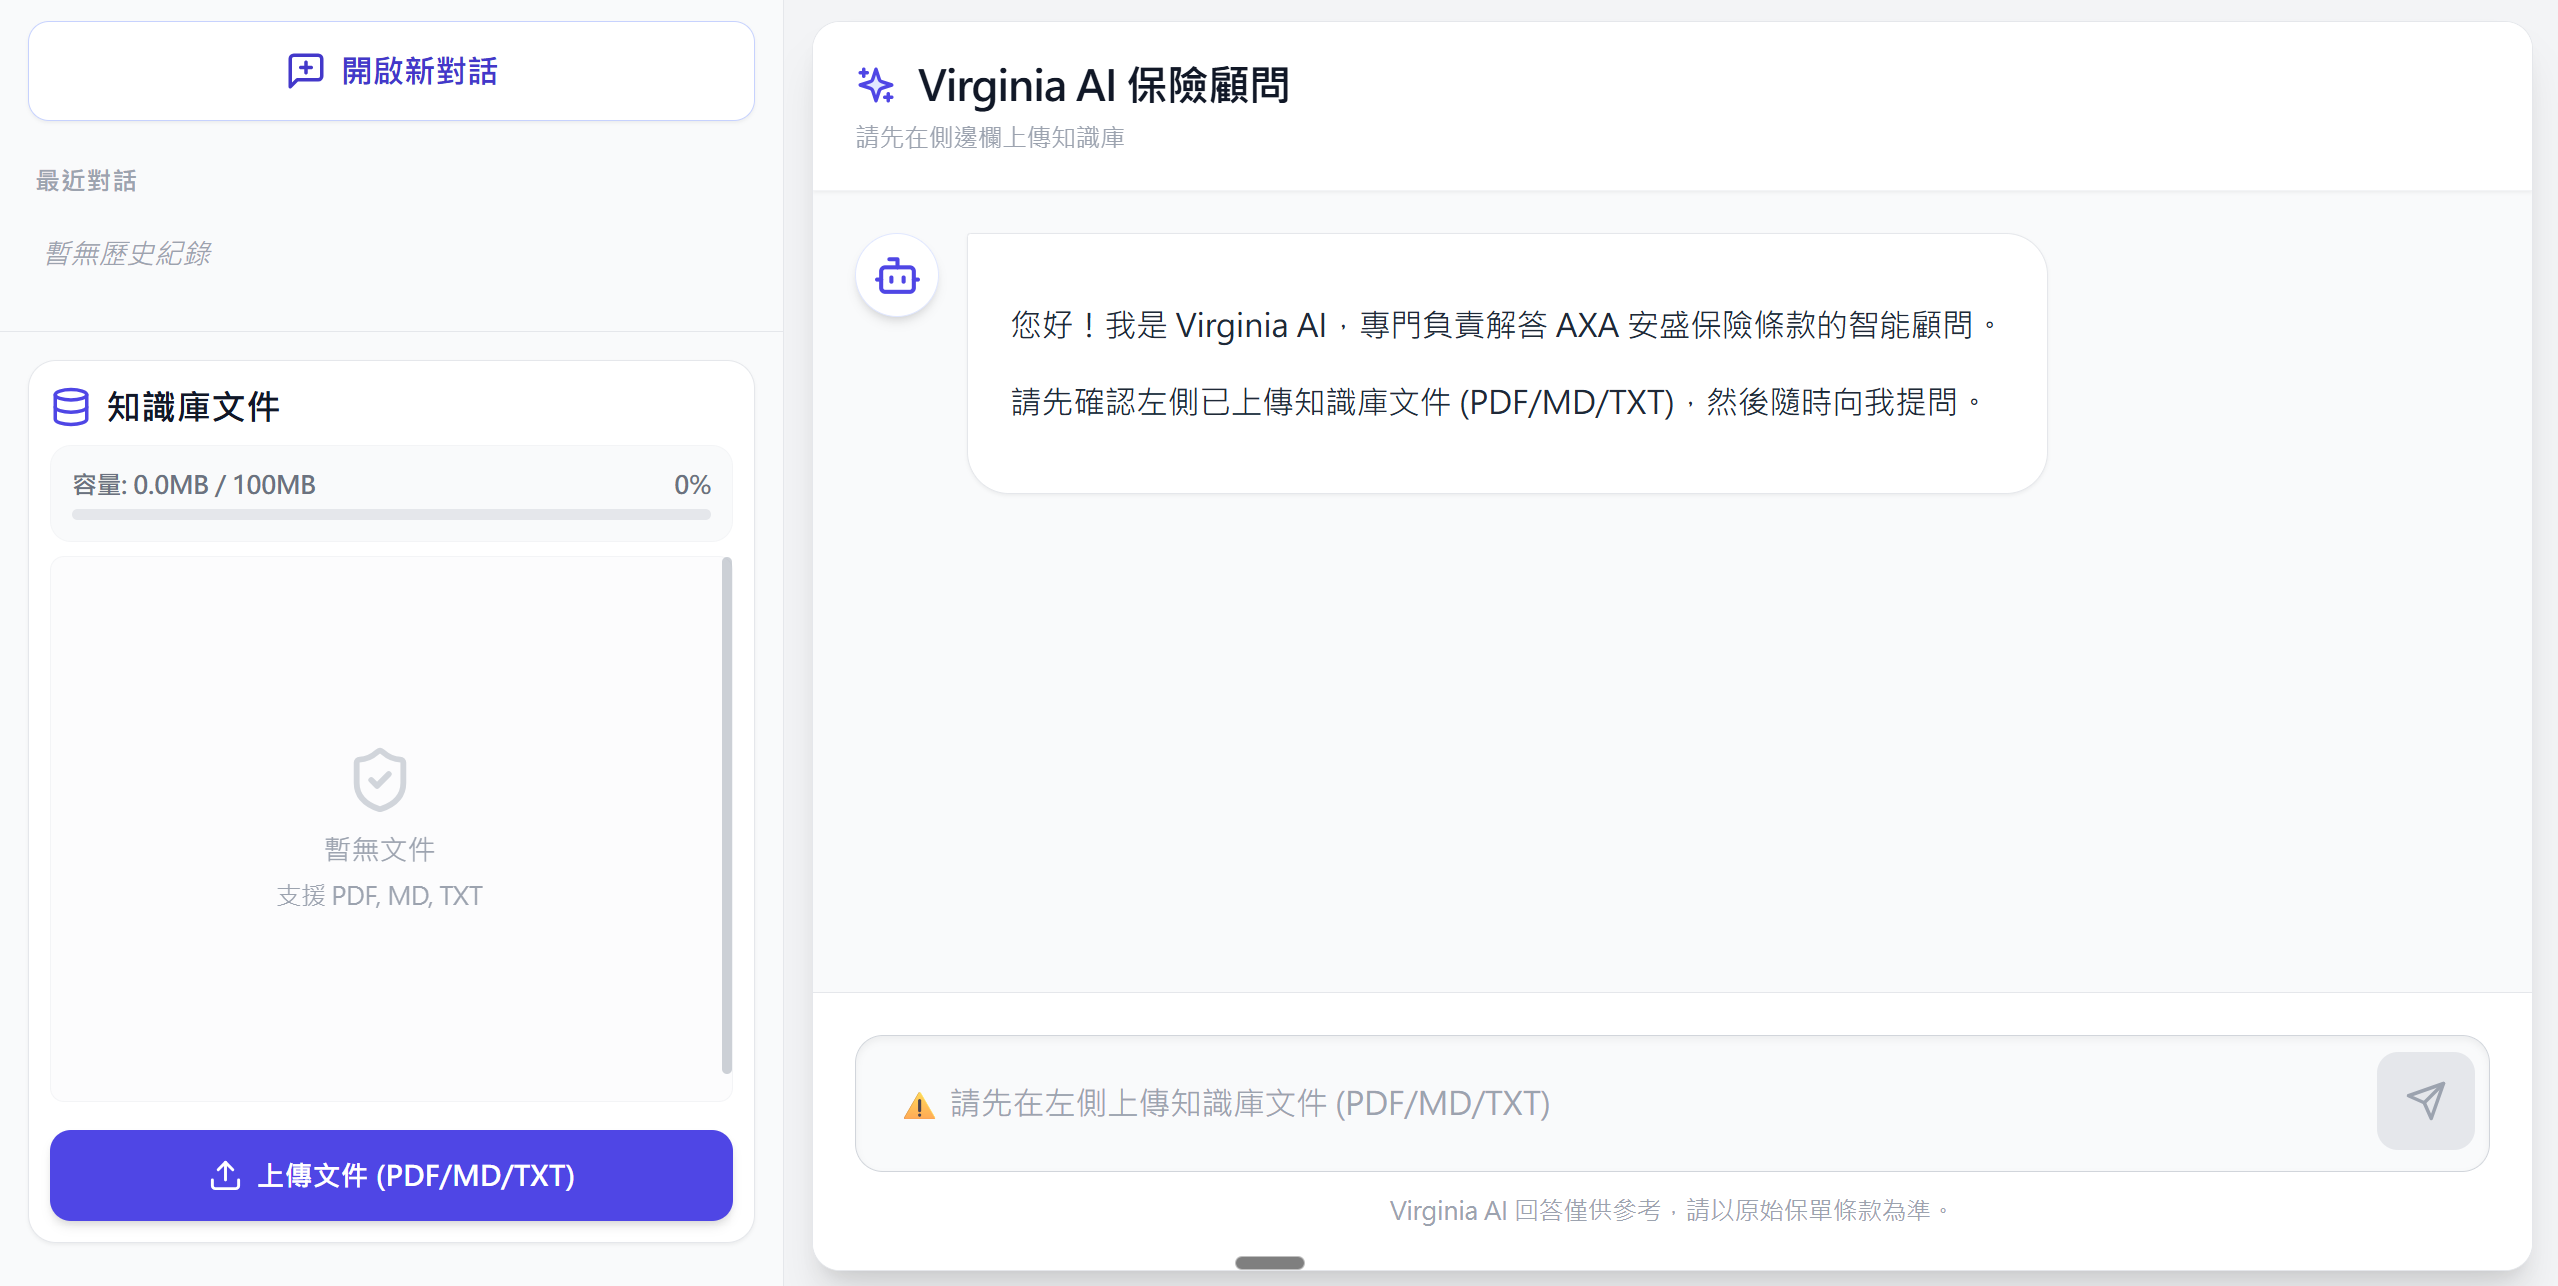
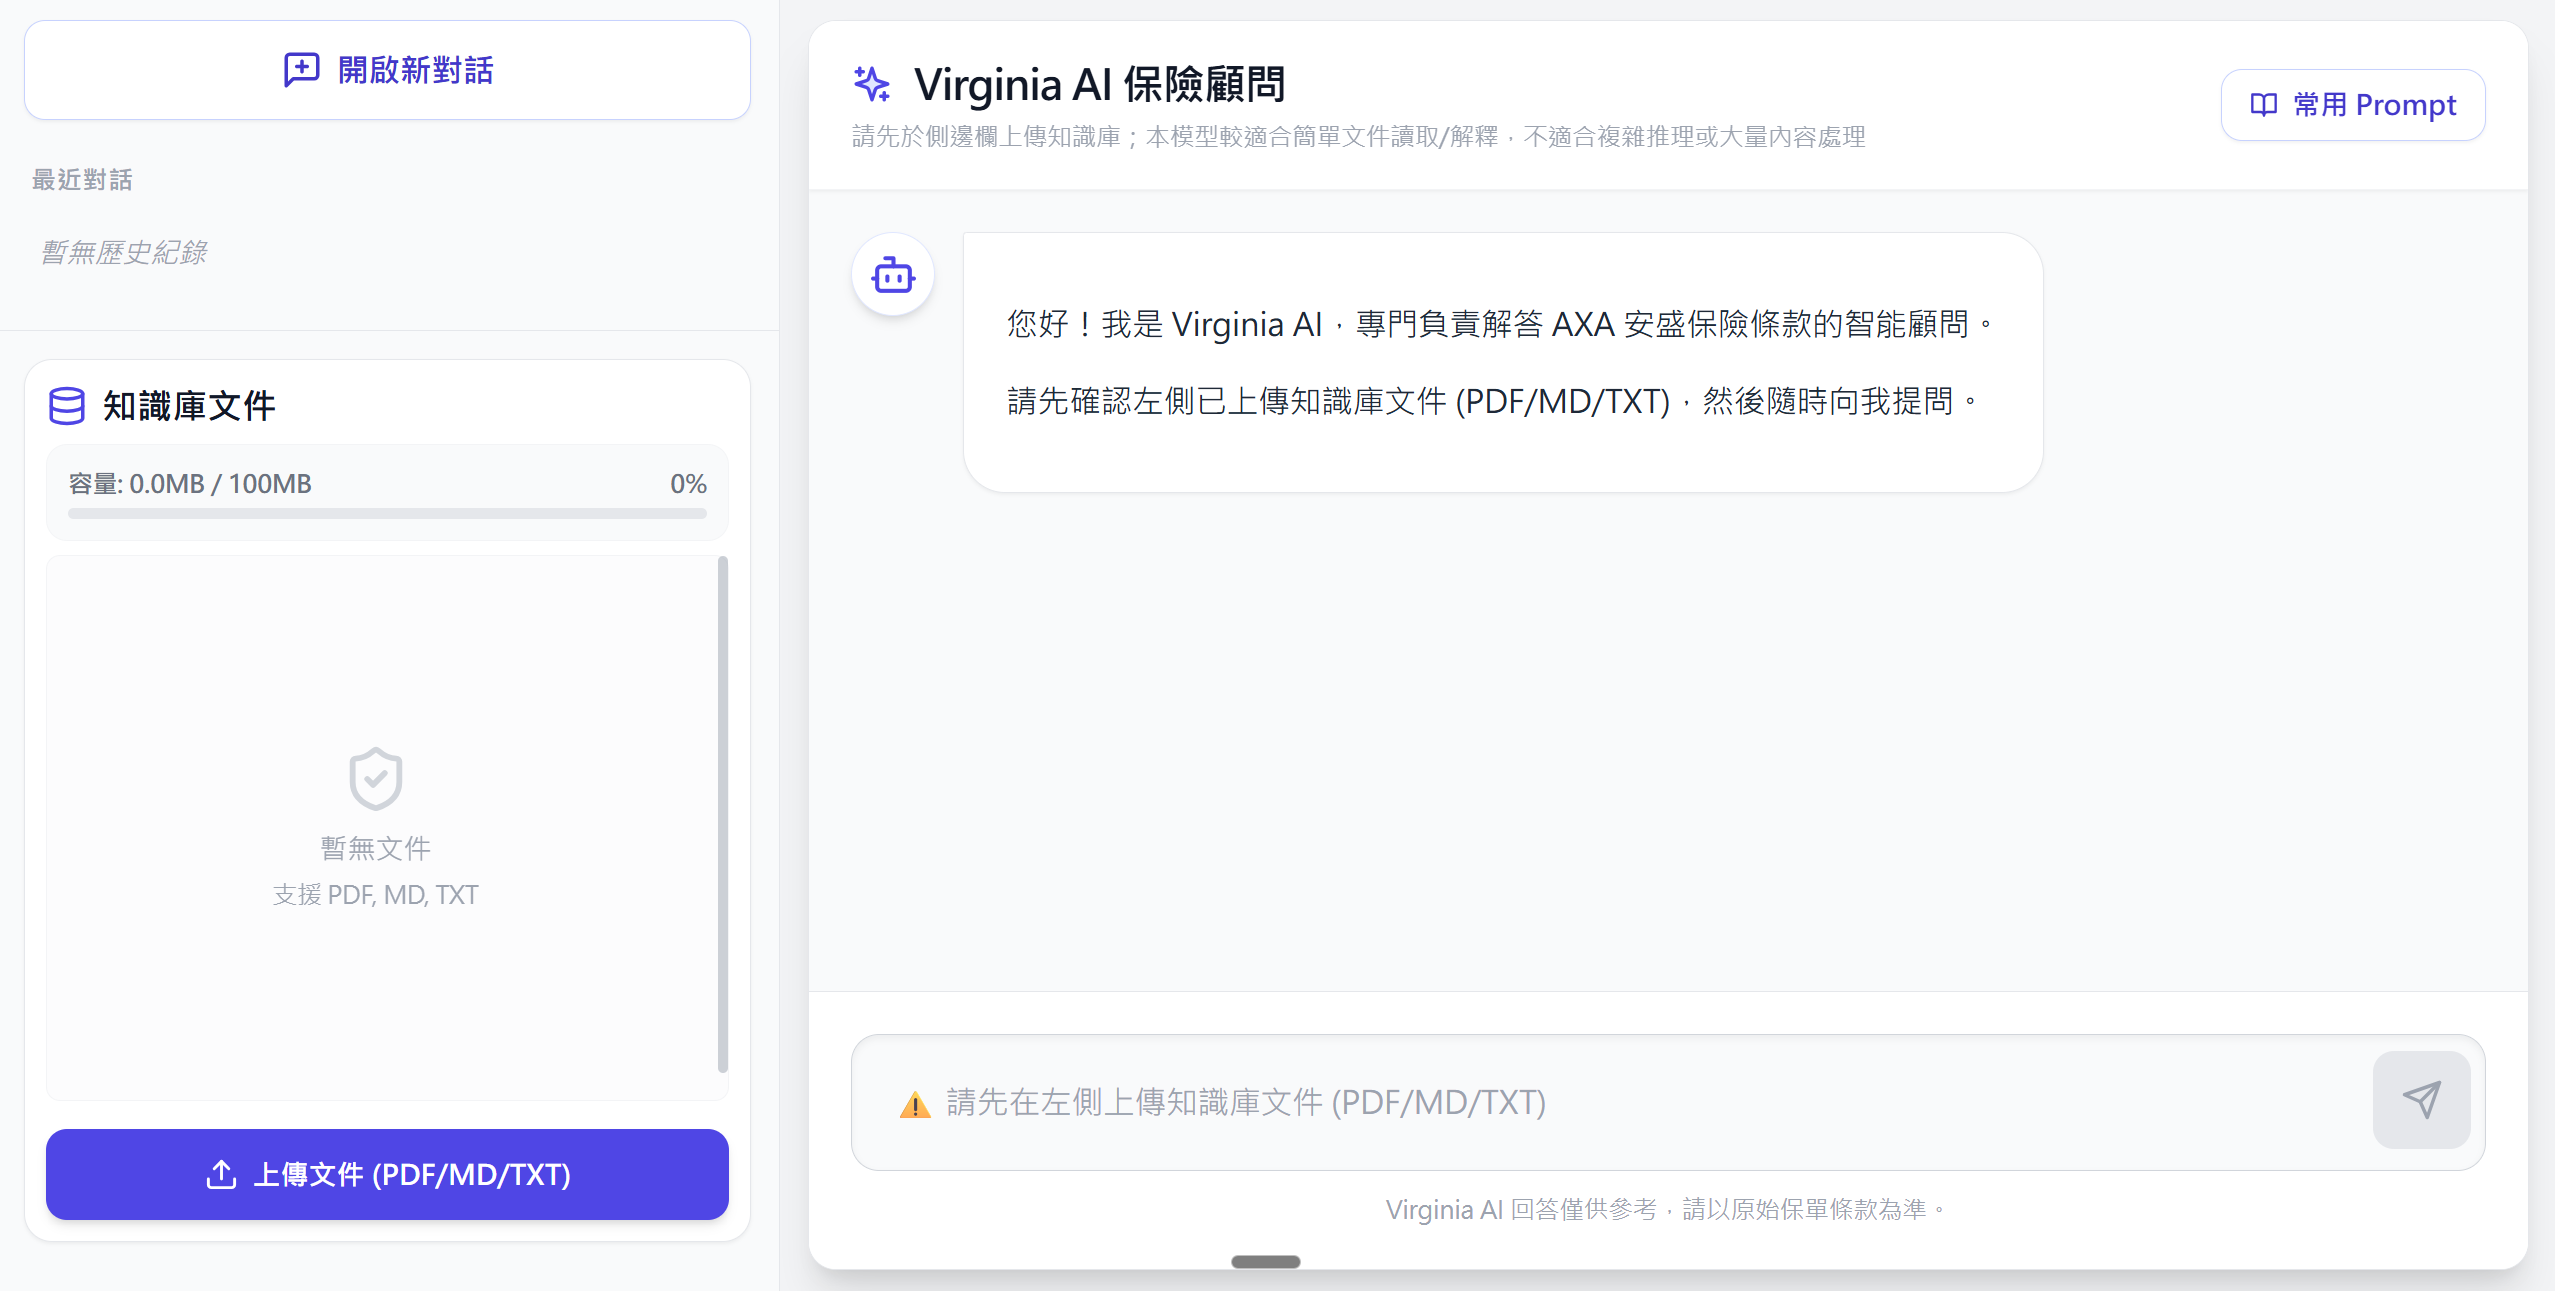
docs: 更新 README 與介面文案，補充 LLM 設定說明與模型限制提示
- 移除 README 頂部橫幅圖片
- 新增「使用的 LLM / Model（及設定位置）」章節：說明使用 Gemini 3 Flash Preview 模型及 constants.ts 設定檔位置
- 新增三張登入畫面截圖引用
- 調整 ChatInterface 空狀態提示：補充「本模型較適合簡單文件讀取/解釋，不適合複雜推理或大量內容處理」限制說明
- 更新 login_screen_02.png 截圖

diff --git a/components/ChatInterface.tsx b/components/ChatInterface.tsx
@@ -69,7 +69,7 @@ const ChatInterface: React.FC<ChatInterfaceProps> = ({ files, messages, isGenera
           </h1>
           <p className="text-sm text-gray-500 mt-1 font-medium">
              <span className={files.length > 0 ? "text-green-600 font-bold" : "text-gray-400"}>
-               {files.length > 0 ? `已就緒 (${files.length} 份知識庫文件)` : "請先在側邊欄上傳知識庫"}
+               {files.length > 0 ? `已就緒 (${files.length} 份知識庫文件)` : "請先於側邊欄上傳知識庫；本模型較適合簡單文件讀取/解釋，不適合複雜推理或大量內容處理"}
              </span>
           </p>
         </div>

diff --git a/README.md b/README.md
@@ -1,7 +1,3 @@
-<div align="center">
-<img width="1200" height="475" alt="GHBanner" src="https://github.com/user-attachments/assets/0aa67016-6eaf-458a-adb2-6e31a0763ed6" />
-</div>
-
 # Virginia AI BFF（AXA 智能保險顧問）
 
 一個以 **BFF（Backend-for-Frontend）模式**接駁 Google Gemini 的 Web App。
@@ -9,7 +5,22 @@
 - **用途**：上傳 AXA 保險條款文件（PDF/MD/TXT）作為「知識庫」，再用對話方式查詢。
 - **回答規則（重點）**：系統指令要求模型 **只可根據已上傳文件回答**，並在每次回答末尾輸出 `---SOURCES---` 來源清單（前端會解析並展示）。
 
-線上示例（如仍可用）：https://virginia-ai-bff-686112121757.europe-west1.run.app/
+## 使用的 LLM / Model（及設定位置）
+
+- **LLM 供應商**：Google Gemini
+- **Model 名稱**：`gemini-3-flash-preview`
+- **設定檔案**：
+  - `constants.ts`：
+    - `GEMINI_MODEL`（模型名稱）
+    - `SYSTEM_INSTRUCTION`（主要 system prompt / 回答規則）
+
+線上示例：https://virginia-ai-bff-686112121757.europe-west1.run.app/
+
+![login_screen_01](login_screen_01.png)
+
+![login_screen_02](login_screen_02.png)
+
+![login_screen_03](login_screen_03.png)
 
 ## 功能概覽
 
